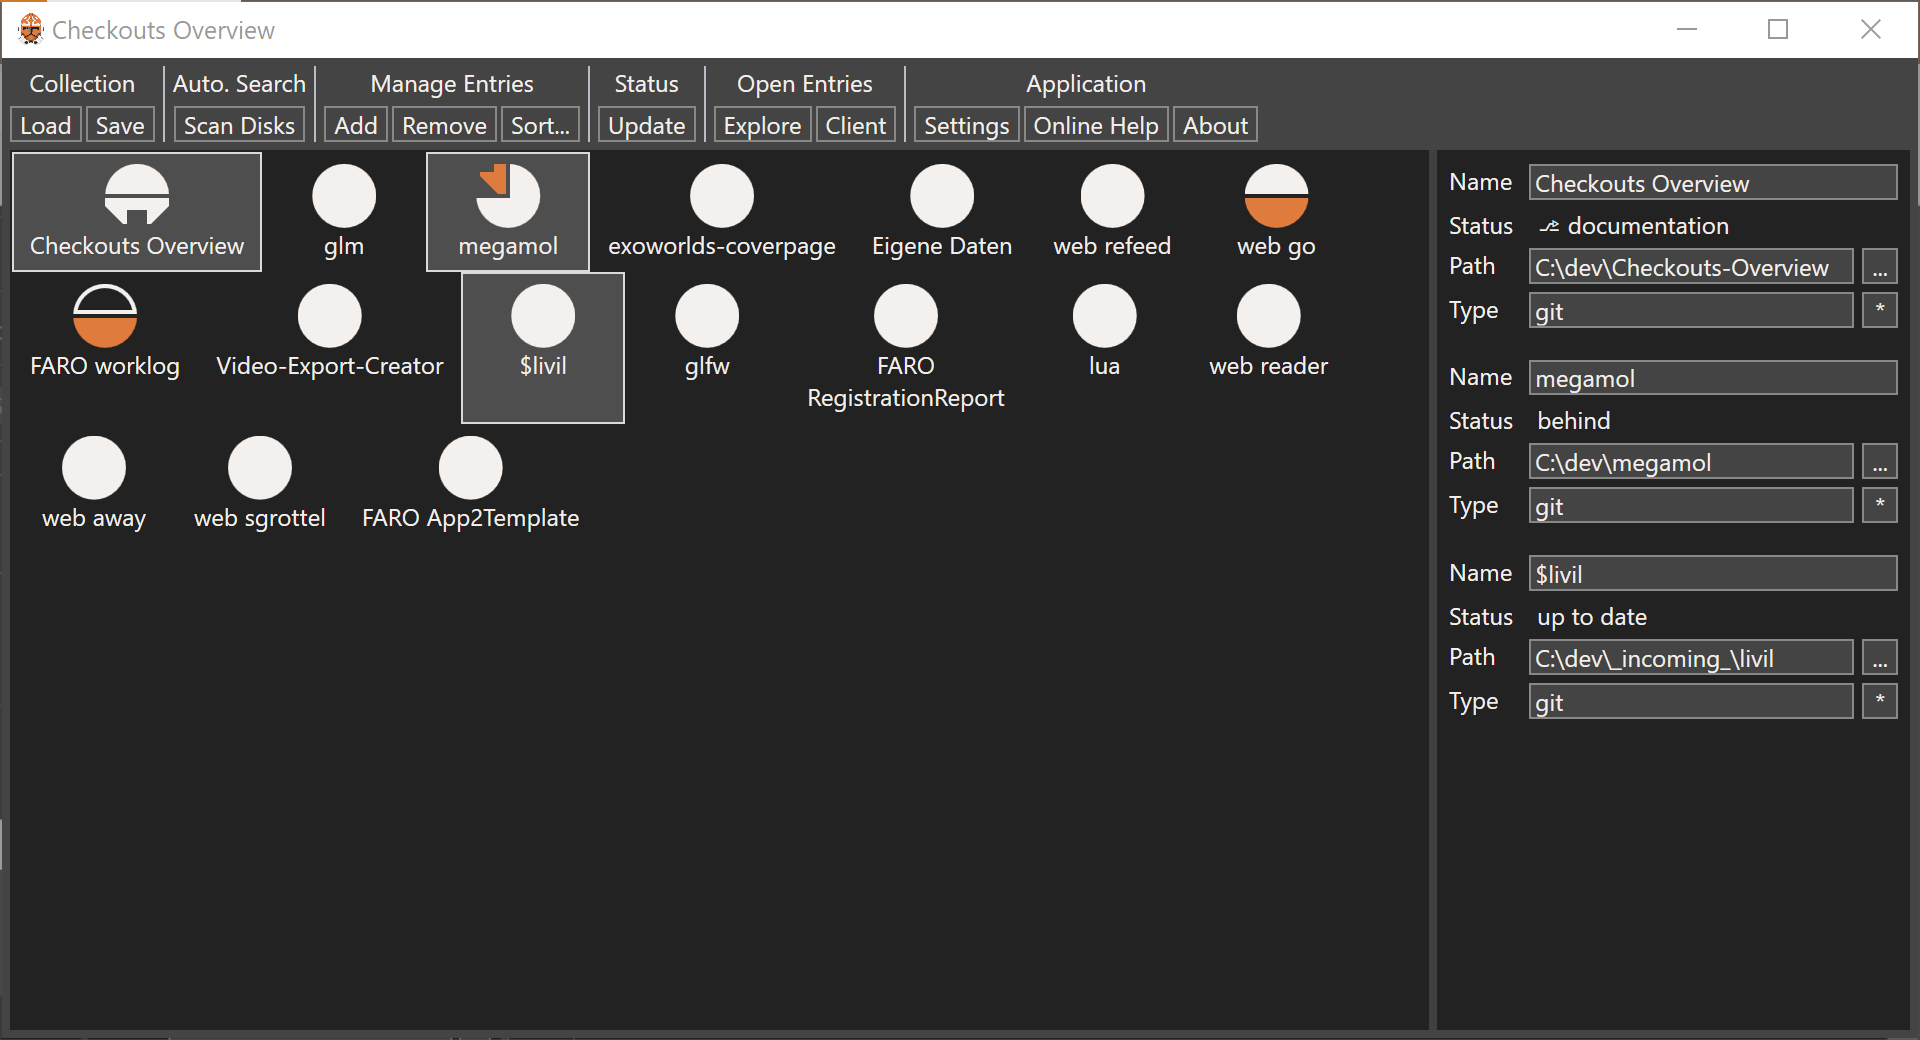
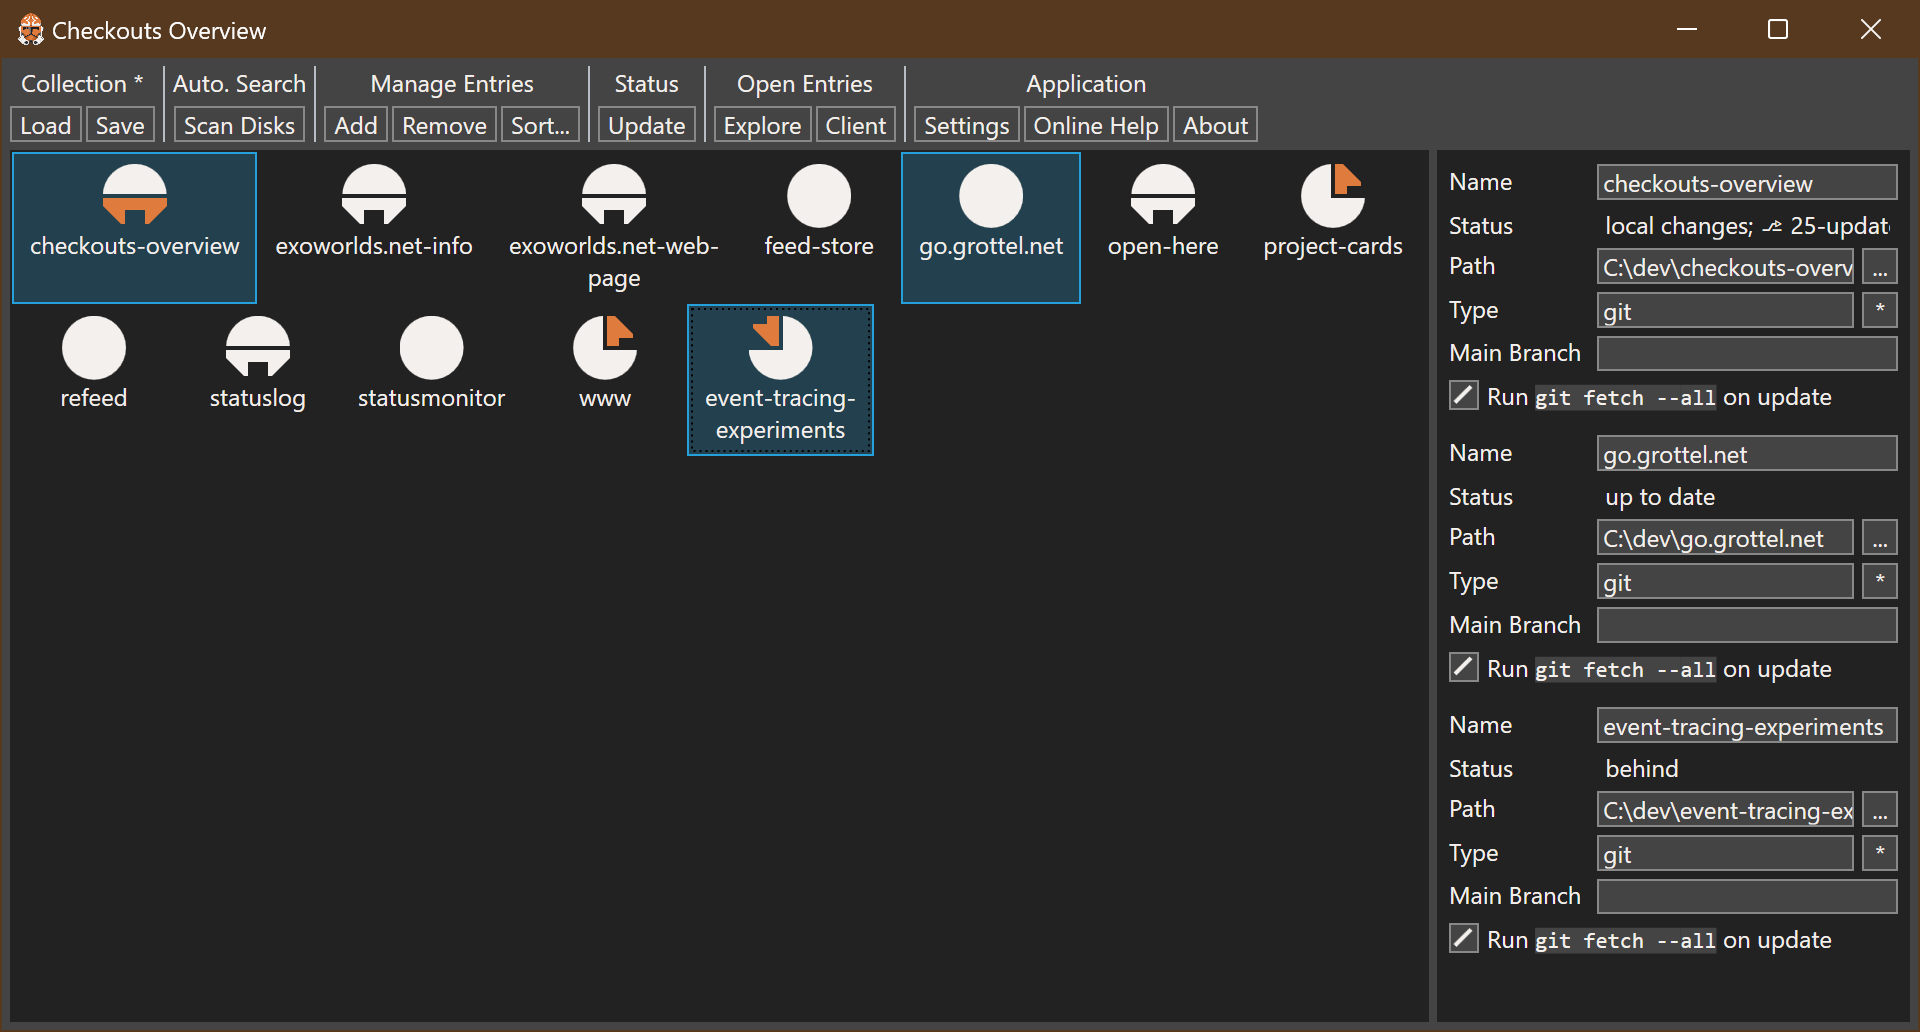
Screenshots and documentation updated

Changed region(s): [[0.0, 0.0, 1.0, 0.9302], [0.0, 0.9922, 1.0, 1.0]]

diff --git a/doc/manual.md b/doc/manual.md
@@ -23,7 +23,7 @@ The list of entries, also called the `Collection` is the main data for the appli
 
 ### Entries
 Each entry represents one repository clone.
-Each entry is defined by three fields:
+Each entry is defined by several fields:
 * `Name` is a human readable display name for the entry.
 This can be any arbitrary string.
 * `Path` is the full file system path to the local repository clone.
@@ -32,6 +32,11 @@ You can use the `[...]` button next to the text boxes to browse of a path.
 This is for future extensions.
 Currently, the only supported value is `git` for git repository clones.
 You can use the `[*]` button to auto-detect the repository type.
+* `Main Branch` is the main branch name to be used for that repository.
+If this field is empty, the application setting define this value.
+* `Run git fetch --all on update` specifies whether or not to fetch new status information from the repository origin on update.
+This is a three-state check box.
+In the neutral state `[/]`, the value is specified in the application settings.
 
 With the commands in the `Manage Entries` category, you can `[Add]` new entries to the collection and `[Remove]` the selected entries from the collection.
 When you `[Add]` a new entry, all fields will be empty.
@@ -93,6 +98,9 @@ Combinations of all indicators are possible:
 The collection of entries can be automatically loaded, if configured accordingly in the application's settings.
 Then the last file you are loading or saving, will be memorized of automatic load on application start.
 
+An Asterisk `*` next to the label `Collection` indicates that you have unsaved changes.
+You will be asked if you want to save these changes when you close the application or when you load a new collection.
+
 When you trigger `[Save]` the current collection file's directory and file name will be pre-selected in the save dialog window.
 The save dialog window will always be shown.
 You can browse to any other local, change the name of the file, or simply press `Ok` to overwrite the existing file with the updated contents.
@@ -130,22 +138,34 @@ The application is capable of automatically scanning your file system to detect 
 
 ![Scanning Dialog](screenshot-scan.png)
 
-### Everything
-Scan with [Everything](https://www.voidtools.com/) will scan all your NTFS disks with light speed fast performance.
+In the left panel you specify the search options.
+
+You can select a search provider:
+* `Everything`
+* `File System`
+
+[Everything](https://www.voidtools.com/) will scan all your NTFS disks with light-speed fast performance.
 You need to have Everything installed, and the Everything service needs to be running.
 
-Just click `[Search with Everything]` and be amazed how quick it is.
+Alternatively, iterative through your `file system` with OS-built-in functions.
+This method can be very slow.
 
-### File System Scan
-Scan with Filesystem manually iterates through your file system, starting from the specified root directory.
+You need to specify a starting root directory for your scan.
+Enter the root directory path, or browse for a path using the `...` button.
 Any existing directory path is a valid starting point.
 All subdirectories within this path will be scanned.
-This method works on all file systems and all disk types, including network drives.
-But, this method can be very slow.
+If you leave the `search root` blank and use `Everything`, then all NTFS disks will be searched.
 
-Enter the root directory path, or browse for a path using the `...` button.
-Then click `[Start Search File System]` button.
-A progress dialog will appear, summarizing the repositories found so far, and offering you an option to abort the search process.
+You can specify several ignore sub-strings.
+All potentially found paths to repository clones, which contain one of those strings (case insensitive), will not be included in the results.
+
+Finally, you can specify if you want to `decent into checkout sub-directories` of found repository clones.
+
+The right panel shows all results after a successful scan.
+You can select the paths you want to add to your collection.
+The buttons at the top help with manipulating the selction quickly.
+
+Hit `Apply` to add the found and selected paths as entries to your collection.
 
 
 ## Settings
@@ -166,6 +186,9 @@ This is a semicolon separated list of names, e.g. "`main;master`".
 If empty, the names `main` and `master` will be used.
 * Configure the `UI Client` application to be started as `Client` from the main window.<br>
 The client application will be called with the selected repositories path as first argument.
+* The `Filesystem Search Engine`, `Search Root`, `Ignore` strings, and `Decent into checkout sub-directories` settings are the default values for the Disk Scanning dialog.
+Change this setup here, e.g., if you have a typical search root directory, or ignore patterns you want to almost always specify.
+* `Run git fetch --all on update` specifies whether or not to fetch new status information from the repository origin on update.
 
 
 ## Links
